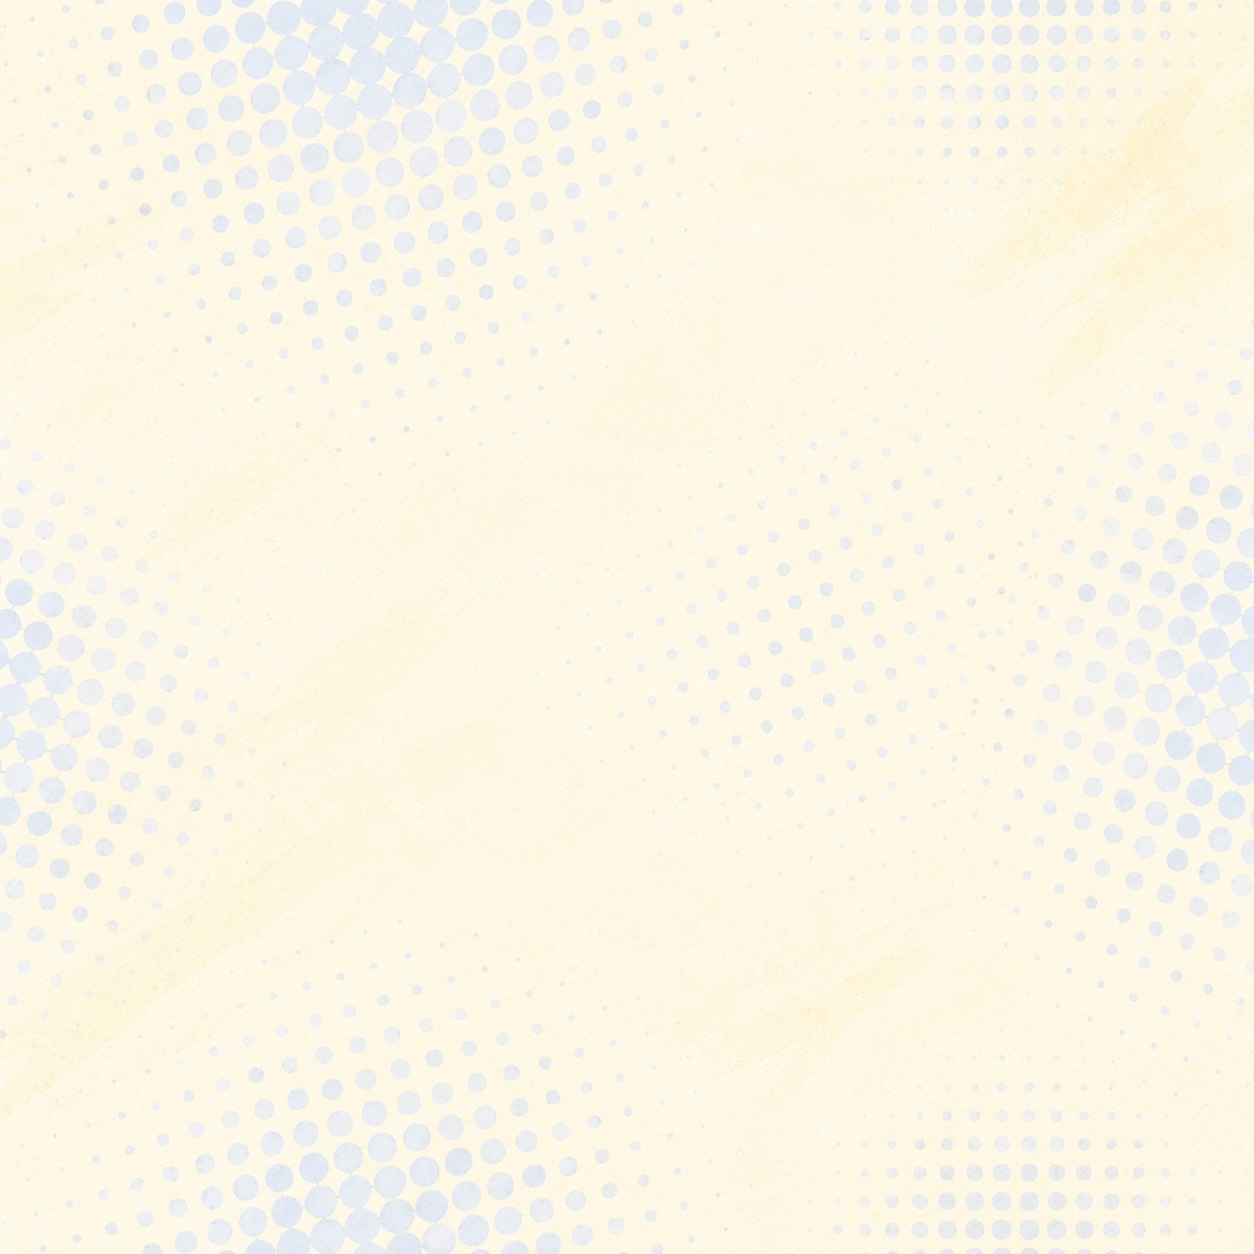
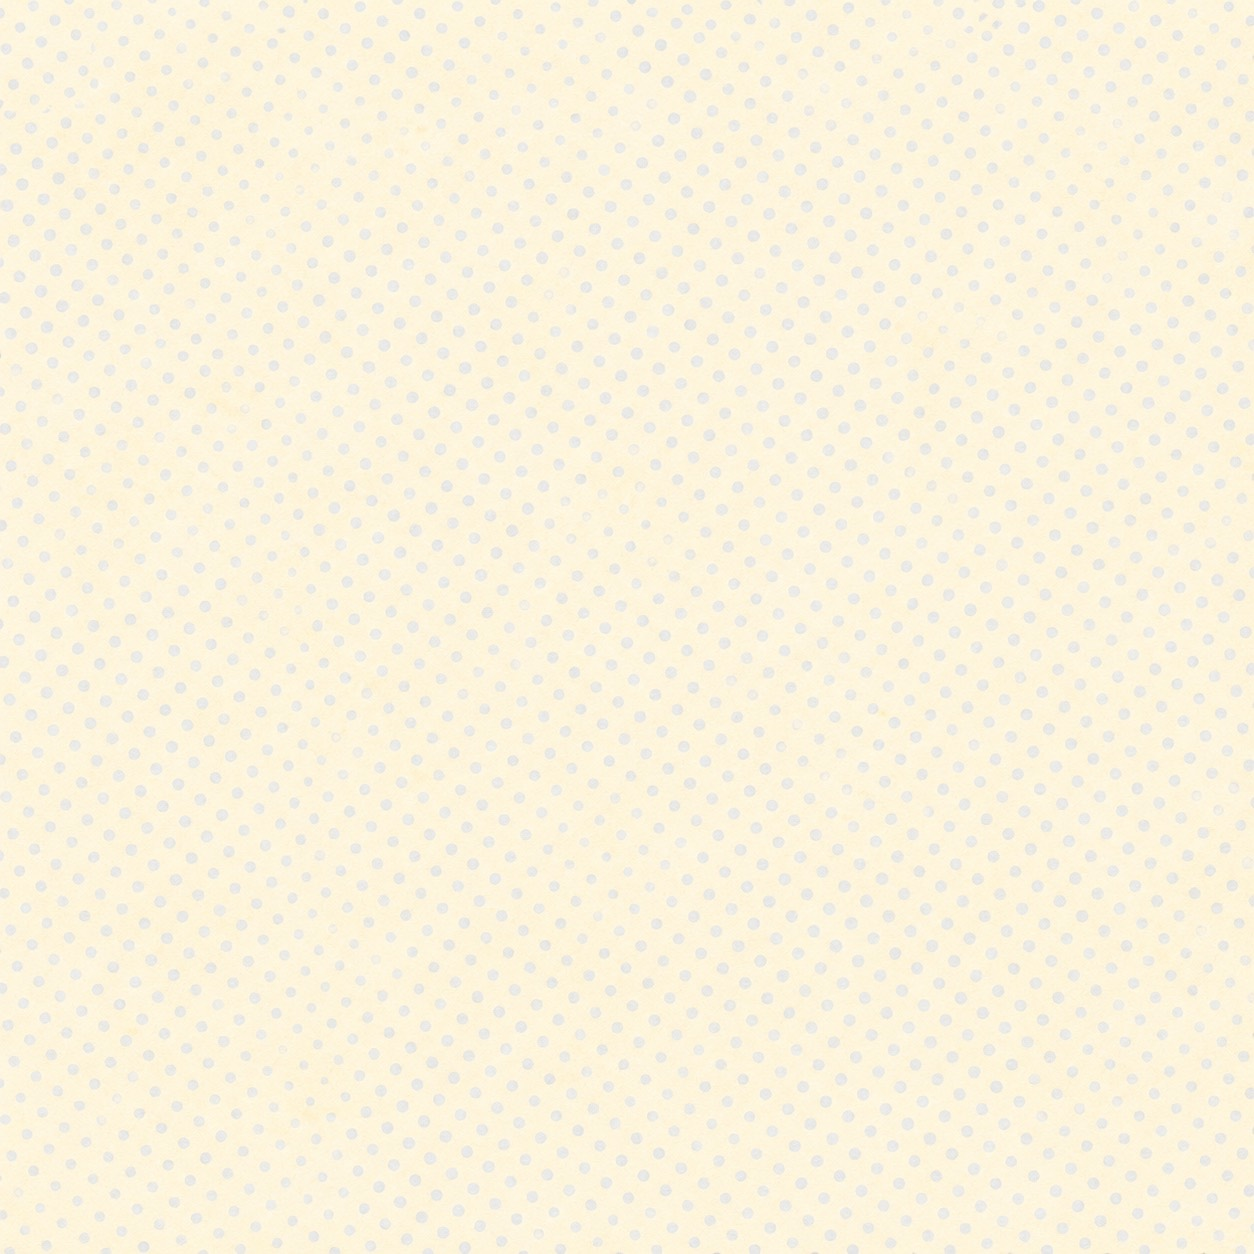
Replace seamless background image

diff --git a/schedule.html b/schedule.html
@@ -11,7 +11,7 @@
     <link rel="manifest" href="manifest.webmanifest">
     <link rel="icon" href="assets/app-icon-v3.jpg" type="image/jpeg">
     <link rel="apple-touch-icon" href="assets/app-icon-v3.jpg">
-    <link rel="stylesheet" href="styles.css?v=199">
+    <link rel="stylesheet" href="styles.css?v=200">
   </head>
   <body class="is-loading" data-schedule-mode="all">
     <div class="page-loader" id="page-loader" aria-live="polite" aria-label="読み込み中">

diff --git a/clips.html b/clips.html
@@ -11,7 +11,7 @@
     <link rel="manifest" href="manifest.webmanifest">
     <link rel="icon" href="assets/app-icon-v3.jpg" type="image/jpeg">
     <link rel="apple-touch-icon" href="assets/app-icon-v3.jpg">
-    <link rel="stylesheet" href="styles.css?v=199">
+    <link rel="stylesheet" href="styles.css?v=200">
   </head>
   <body class="is-loading" data-clips-mode="all">
     <div class="page-loader" id="page-loader" aria-live="polite" aria-label="読み込み中">

diff --git a/index.html b/index.html
@@ -11,7 +11,7 @@
     <link rel="manifest" href="manifest.webmanifest">
     <link rel="icon" href="assets/app-icon-v3.jpg" type="image/jpeg">
     <link rel="apple-touch-icon" href="assets/app-icon-v3.jpg">
-    <link rel="stylesheet" href="styles.css?v=199">
+    <link rel="stylesheet" href="styles.css?v=200">
   </head>
   <body class="is-loading home-page">
     <div class="page-loader" id="page-loader" aria-live="polite" aria-label="読み込み中">

diff --git a/news.html b/news.html
@@ -11,7 +11,7 @@
     <link rel="manifest" href="manifest.webmanifest">
     <link rel="icon" href="assets/app-icon-v3.jpg" type="image/jpeg">
     <link rel="apple-touch-icon" href="assets/app-icon-v3.jpg">
-    <link rel="stylesheet" href="styles.css?v=199">
+    <link rel="stylesheet" href="styles.css?v=200">
   </head>
   <body class="is-loading">
     <div class="page-loader" id="page-loader" aria-live="polite" aria-label="読み込み中">

diff --git a/service-worker.js b/service-worker.js
@@ -1,11 +1,11 @@
-const CACHE_VERSION = "ngd-info-pwa-v72";
+const CACHE_VERSION = "ngd-info-pwa-v73";
 const APP_SHELL = [
   "./",
   "./index.html",
   "./news.html",
   "./schedule.html",
   "./clips.html",
-  "./styles.css?v=199",
+  "./styles.css?v=200",
   "./script.js?v=169",
   "./pwa.js?v=8",
   "./manifest.webmanifest",
